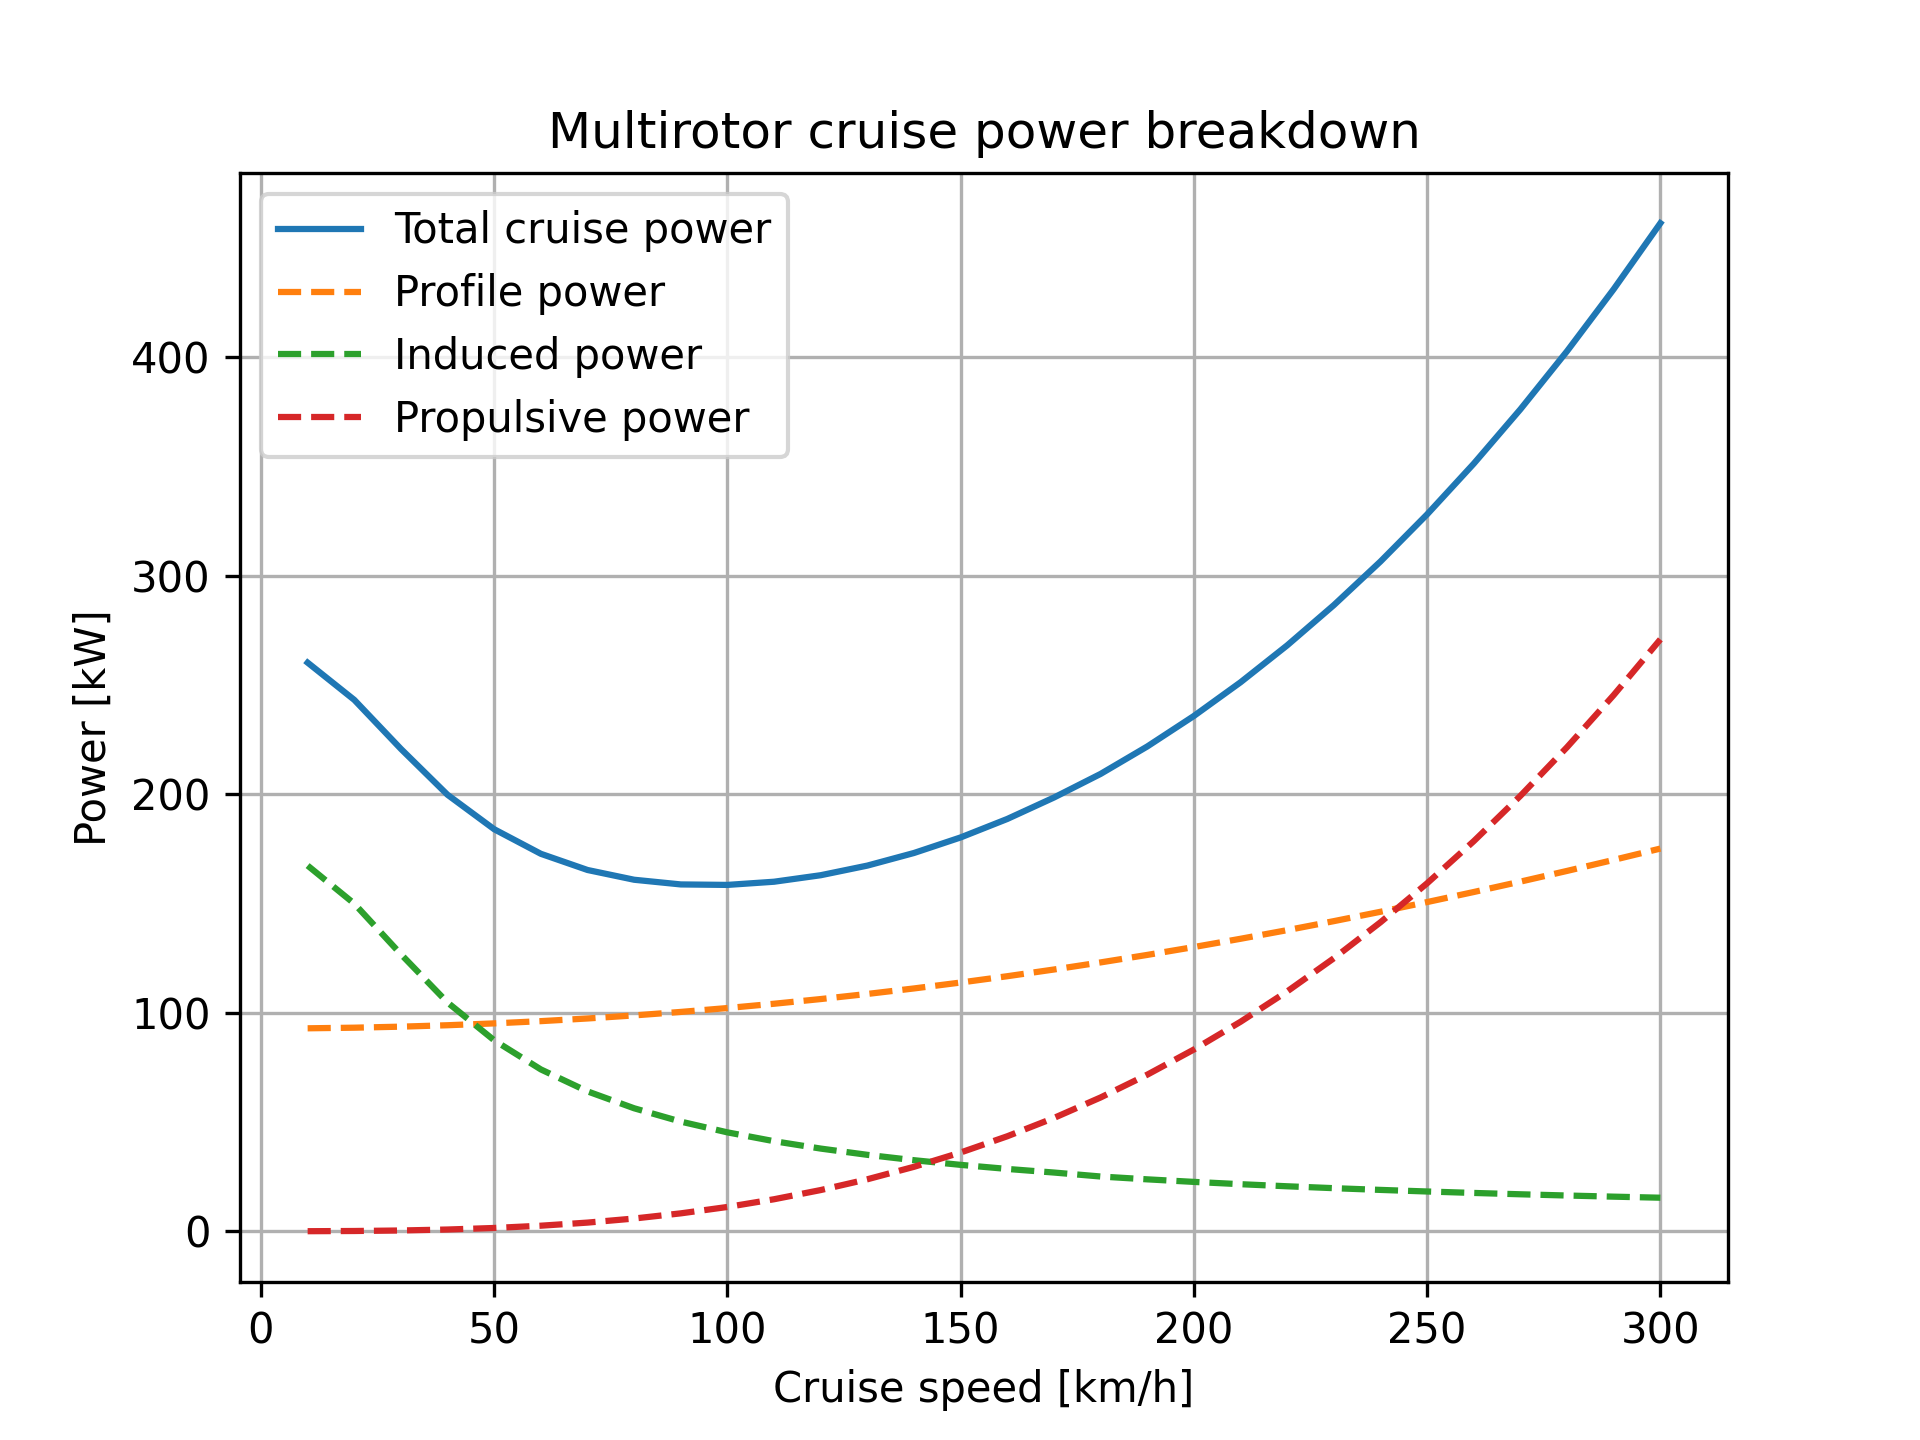
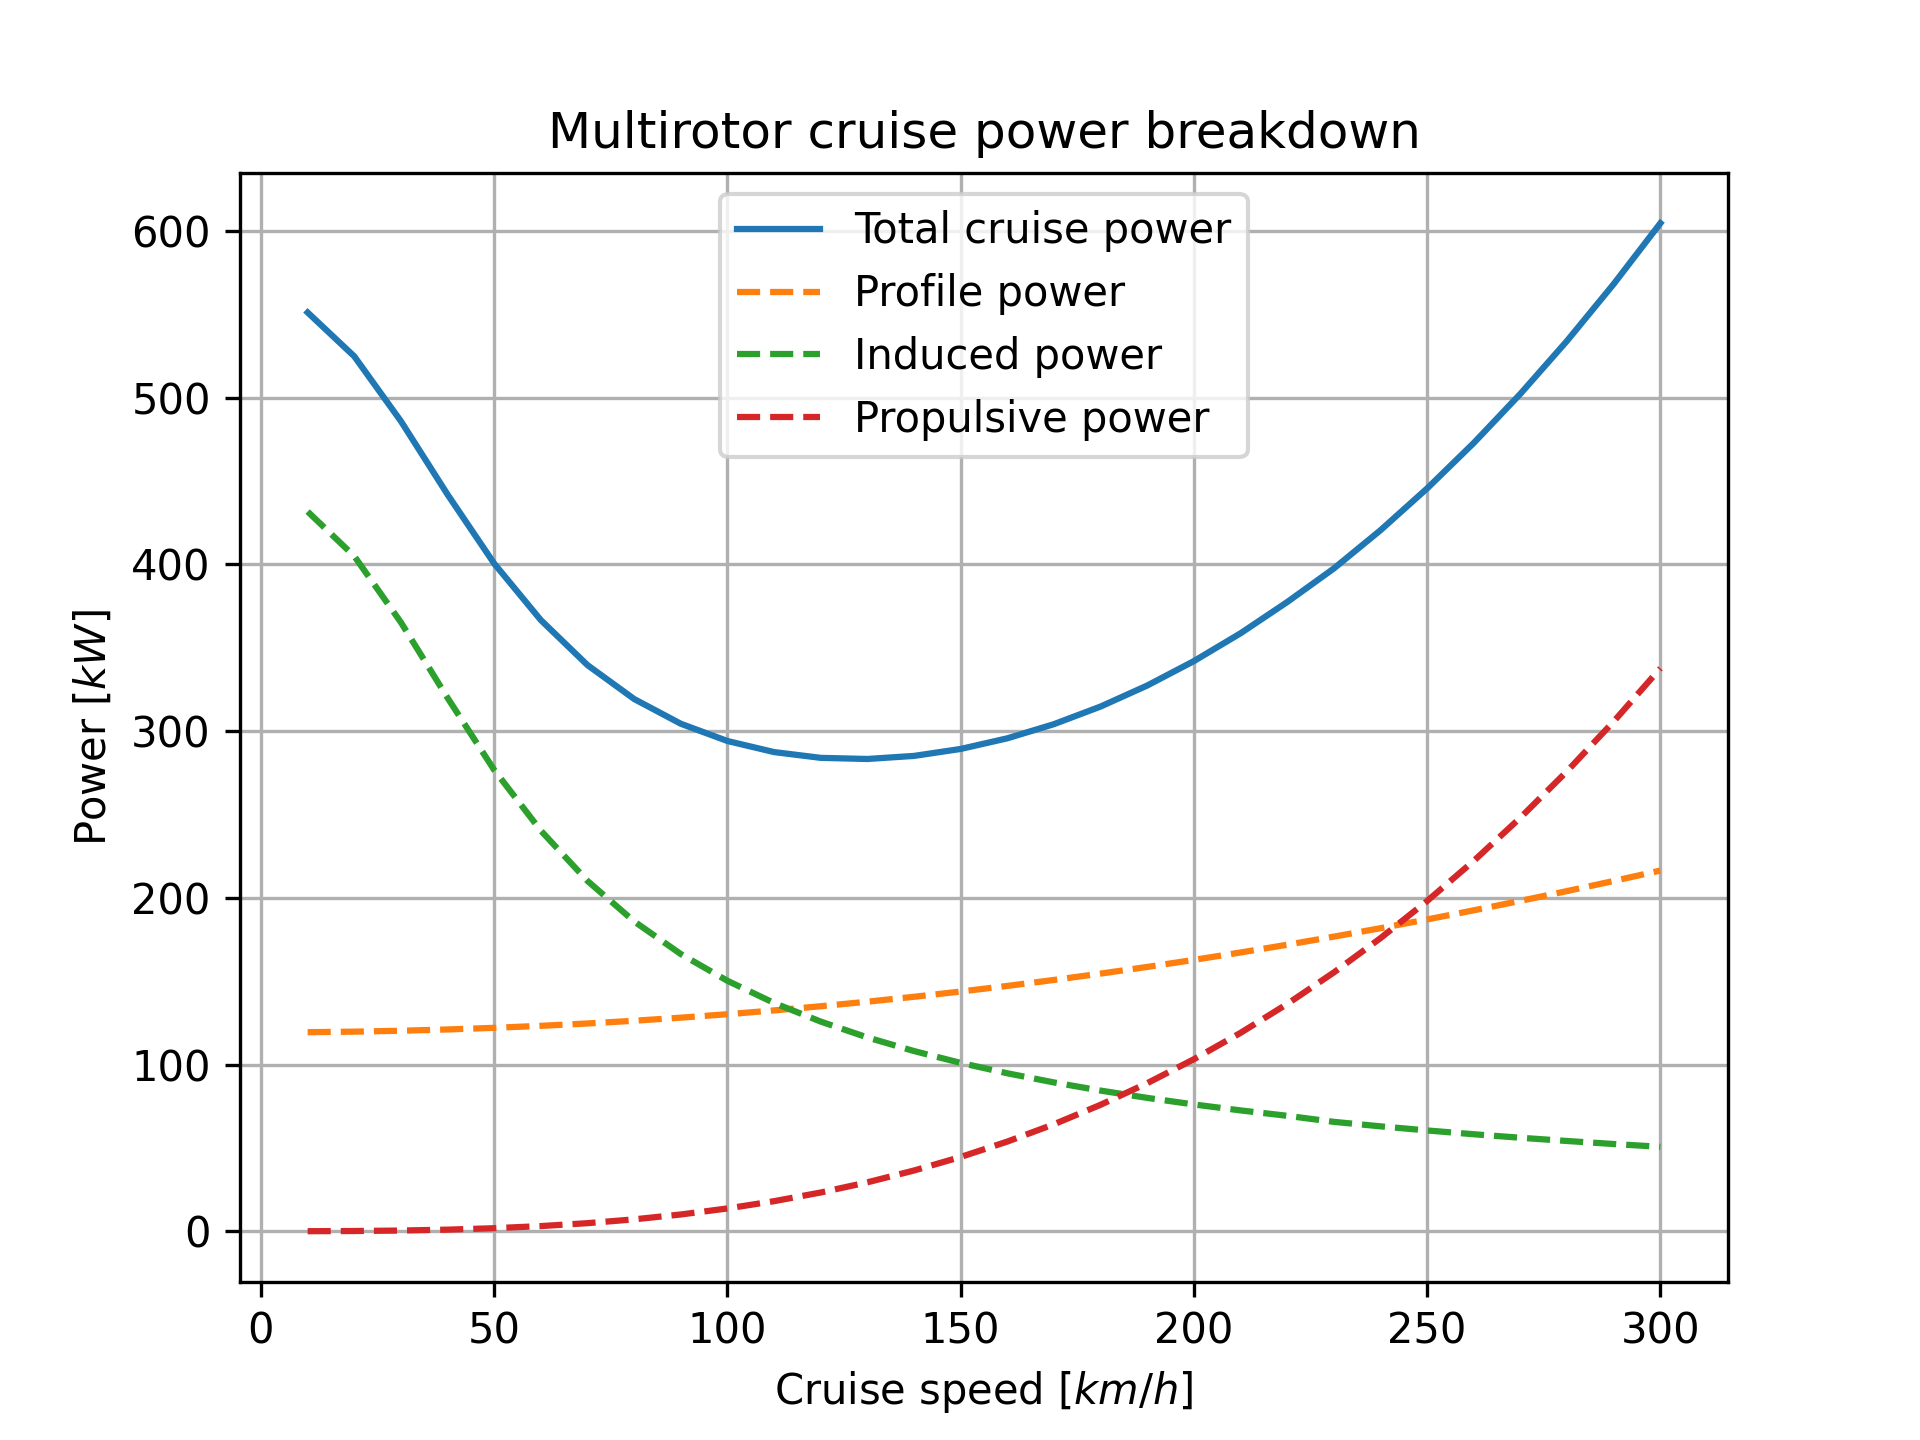
updated cruise power vs speed for multirotor

diff --git a/examples/0_analyses_of_ref_vehicle/2_power_estimation/power_vs_speed/multirotor/plot_results.py b/examples/0_analyses_of_ref_vehicle/2_power_estimation/power_vs_speed/multirotor/plot_results.py
@@ -2,8 +2,9 @@ import numpy as np
 import pandas as pd
 import matplotlib.pyplot as plt
 
-plot_power_breakdown = False
+plot_power_breakdown = True
 plot_type_of_speeds = True
+savefig = False
 
 data = pd.read_csv('multirotor_P_vs_v.csv')
 
@@ -15,12 +16,11 @@ if plot_power_breakdown:
     ax.plot(data['cruise_speed'], data['induced_power'], '--', label='Induced power')
     ax.plot(data['cruise_speed'], data['propulsive_power'], '--', label='Propulsive power')
     ax.grid()
-    ax.set_ylabel('Power [kW]')
-    ax.set_xlabel('Cruise speed [km/h]')
+    ax.set_ylabel(r'Power $[kW]$')
+    ax.set_xlabel(r'Cruise speed $[km/h]$')
     ax.legend()
     ax.set_title('Multirotor cruise power breakdown')
-    plt.show()
-    # plt.savefig('cruise_power_breakdown_multirotor.png', format='png', dpi=300)
+    plt.savefig('cruise_power_breakdown_multirotor.png', format='png', dpi=300) if savefig else plt.show()
 
 if plot_type_of_speeds:
 
@@ -36,10 +36,11 @@ if plot_type_of_speeds:
     P_BE = cruise_power_polytrends(v_BE)
 
     # Compute best range speed
-    m = 1.168
+    m = 1.7055  # manually find this m!!!
     y_grad, x_grad = m * np.arange(0, 310, 10), np.arange(0, 310, 10)
     roots = np.roots(cruise_power_polycoeffs - [0, 0, 0, 0, 0, m, 0])
     roots = roots[np.isreal(roots)]
+    print(roots)
     v_BR = (roots[2].real + roots[3].real) / 2
     P_BR = cruise_power_polytrends(v_BR)
 
@@ -66,5 +67,4 @@ if plot_type_of_speeds:
     ax.grid()
     ax.set_title('Multirotor cruise power vs speed')
     ax.legend()
-    # plt.show()
-    plt.savefig('cruise_power_vs_speed_multirotor.png', format='png', dpi=300)
+    plt.savefig('cruise_power_vs_speed_multirotor.png', format='png', dpi=300) if savefig else plt.show()

diff --git a/examples/0_analyses_of_ref_vehicle/2_power_estimation/power_vs_speed/multirotor/power_vs_speed_multirotor.py b/examples/0_analyses_of_ref_vehicle/2_power_estimation/power_vs_speed/multirotor/power_vs_speed_multirotor.py
@@ -36,7 +36,7 @@ for i, cruise_speed in enumerate(cruise_speed_list):
     # plot_mission_parameters(mission, print_info=False)
 
     # Design and operation variables
-    design_var = {'r_lift_rotor': 4.0}
+    design_var = {'r_lift_rotor': 4.20624}  # 13.8 ft = 4.20624 m
     operation_var = {'RPM_lift_rotor': {'hover_climb': 500.0, 'cruise': 450.0}}
 
     # Technology factors
@@ -45,14 +45,12 @@ for i, cruise_speed in enumerate(cruise_speed_list):
     vehicle = StandardMultirotorEVTOL(design_var, operation_var, tfs, n_pax=6, payload_per_pax=payload_per_pax)
     # vehicle.print_info()
 
-    # Fidelity
-    fidelity = {'aero': 1, 'hover_climb': 0}
-    if fidelity['hover_climb'] == 0:
-        vehicle.weight.max_takeoff = 2141.99321998
-    elif fidelity['hover_climb'] == 1:
-        vehicle.weight.max_takeoff = 2199.6029094
-        vehicle.lift_rotor.global_twist = 7.8645777892370585
-        vehicle.lift_rotor.RPM['hover_climb'] = 354.76421553294784
+    # Solver fidelity
+    fidelity = {'aerodynamics': {'parasite': 'ComponentBuildUp', 'induced': 'ParabolicDragPolar'},
+                'power_model': {'hover_climb': 'MomentumTheory'}}
+
+    vehicle.weight.max_takeoff = 4121.13997362
+    vehicle.lift_rotor.RPM['hover_climb'] = 400.0
 
     # Analysis
     analysis = PowerAnalysis(vehicle=vehicle, mission=mission, fidelity=fidelity)
